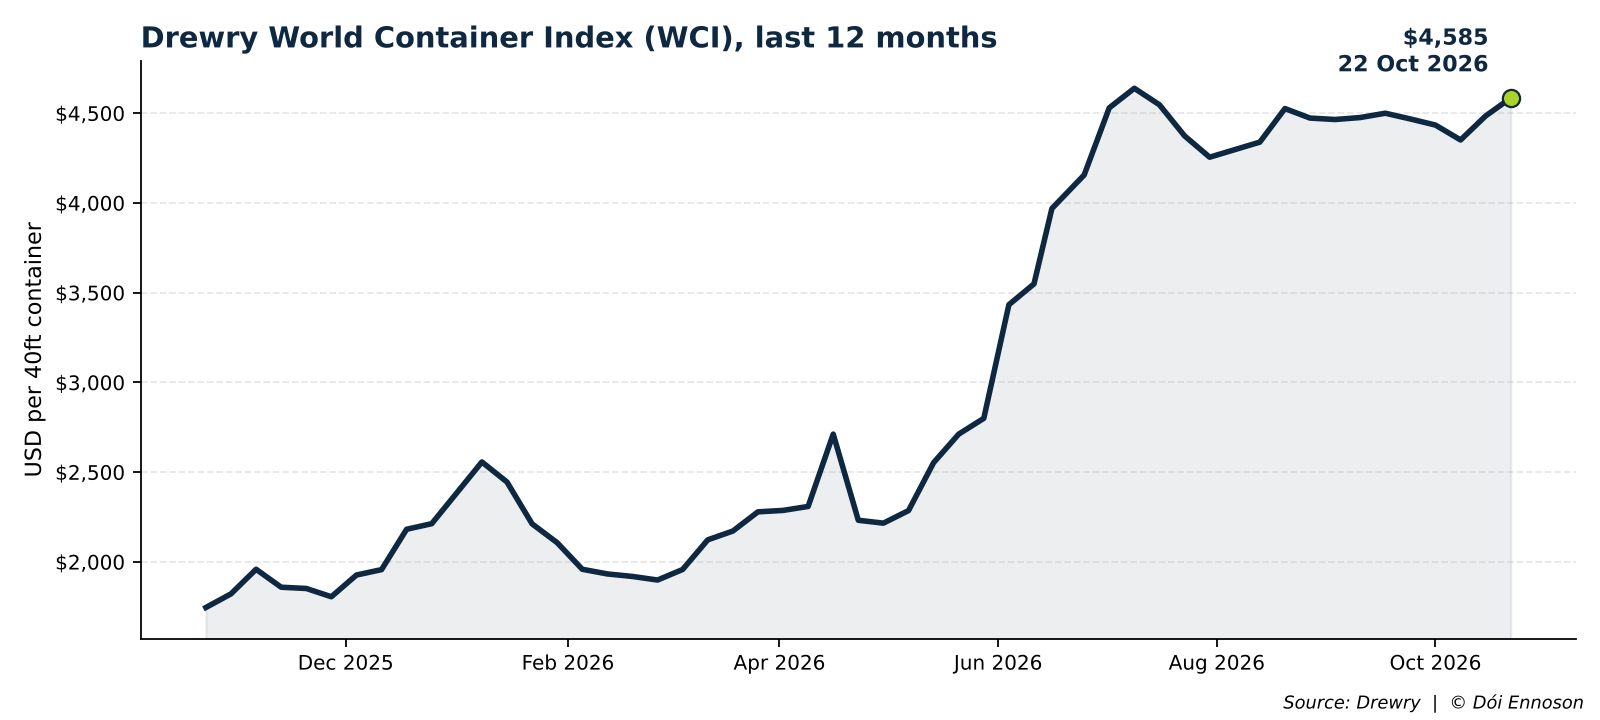
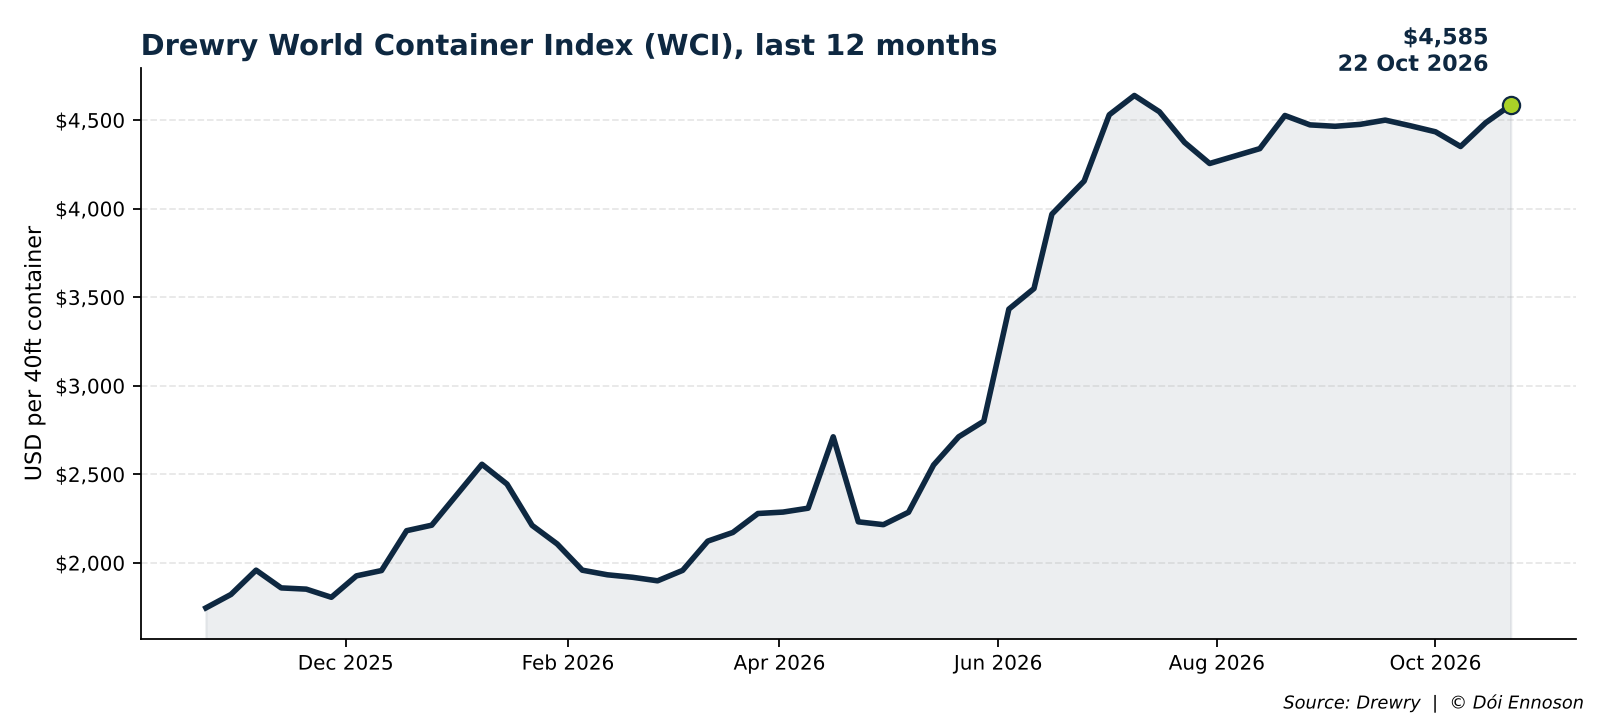
Restyle newsletter charts like the signup page chart
WCI vs. SCFI and IACI now use the compact style of the WCI web chart:
left-aligned title, dollar axis, light grid, latest value marked with a
dot and direct labels instead of a legend. Shared helpers style_chart,
mark_last_value and plot_single_index; images shrink from 4200 px to
1600 px width, which is still sharp in email clients.

Claude-Session: https://claude.ai/code/session_01JCdhY1R9vYqJgFoeeUM1W8

diff --git a/src/plot_generator.py b/src/plot_generator.py
@@ -2,7 +2,6 @@ import os
 import pandas as pd
 import matplotlib.pyplot as plt
 import matplotlib.dates as mdates
-from datetime import datetime
 import logging
 
 # Logging
@@ -57,6 +56,52 @@ def load_and_prepare_data(csv_path, date_col='Date', value_col='Value'):
     return df
 
 
+def style_chart(fig, ax, title, source):
+    """Apply the common chart style (title, axes, grid, source line)."""
+    ax.set_ylabel('USD per 40ft container', fontsize=10)
+    ax.yaxis.set_major_formatter(plt.FuncFormatter(lambda v, _: f'${v:,.0f}'))
+    ax.xaxis.set_major_formatter(mdates.DateFormatter('%b %Y'))
+    ax.xaxis.set_major_locator(mdates.MonthLocator(interval=2))
+    ax.grid(True, axis='y', alpha=0.3, linestyle='--')
+    for side in ('top', 'right'):
+        ax.spines[side].set_visible(False)
+    ax.tick_params(labelsize=9)
+    
+    ax.set_title(title, fontsize=13, fontweight='bold', color=COLOR_WCI, loc='left')
+    fig.text(0.99, 0.01, f'Source: {source}  |  © Dói Ennoson', ha='right', va='bottom', fontsize=8, style='italic')
+    plt.tight_layout(rect=[0, 0.03, 1, 1])
+
+
+def mark_last_value(ax, df, color, label='', side='above'):
+    """Highlight the latest data point with a dot and its value ('above' or 'right' of the dot)."""
+    last_date = df['Date'].iloc[-1]
+    last_value = df['Value'].iloc[-1]
+    ax.scatter([last_date], [last_value], color=COLOR_SCFI, edgecolor=color, s=60, zorder=3)
+    if side == 'right':
+        offset, ha, va = (10, 0), 'left', 'center'
+    else:
+        offset, ha, va = (-10, 12), 'right', 'bottom'
+    ax.annotate(f'{label}${last_value:,.0f}\n{last_date.strftime("%d %b %Y")}',
+                xy=(last_date, last_value), xytext=offset, textcoords='offset points',
+                ha=ha, va=va, fontsize=10, fontweight='bold', color=COLOR_WCI)
+
+
+def plot_single_index(df, output_path, title, source):
+    """Line chart with light area fill for a single index."""
+    fig, ax = plt.subplots(figsize=(10, 4.5))
+    
+    bottom = df['Value'].min() * 0.9
+    ax.plot(df['Date'], df['Value'], color=COLOR_WCI, linewidth=2.5)
+    ax.fill_between(df['Date'], df['Value'], bottom, color=COLOR_WCI, alpha=0.08)
+    ax.set_ylim(bottom=bottom)
+    mark_last_value(ax, df, COLOR_WCI)
+    
+    style_chart(fig, ax, title, source)
+    os.makedirs(os.path.dirname(output_path), exist_ok=True)
+    plt.savefig(output_path, dpi=160, facecolor='white')
+    plt.close()
+
+
 def create_wci_scfi_chart():
     """Create combined WCI and SCFI chart."""
     logger.info("📊 Creating WCI vs SCFI chart")
@@ -74,74 +119,28 @@ def create_wci_scfi_chart():
     wci_df = wci_df[wci_df['Date'] >= start_date]
     scfi_df = scfi_df[scfi_df['Date'] >= start_date]
     
-    logger.info(f"📊 WCI records after filtering: {len(wci_df)}")
-    logger.info(f"📊 SCFI records after filtering: {len(scfi_df)}")
+    if len(wci_df) == 0 or len(scfi_df) == 0:
+        logger.error("❌ No WCI or SCFI data available from 2025-01-01")
+        return False
     
-    if len(wci_df) == 0:
-        logger.warning("⚠ No WCI data available from 2025-01-01")
-    if len(scfi_df) == 0:
-        logger.warning("⚠ No SCFI data available from 2025-01-01")
+    fig, ax = plt.subplots(figsize=(10, 4.5))
     
-    # Create figure with single y-axis
-    fig, ax = plt.subplots(figsize=(14, 8))
+    # Both in USD on the same axis
+    ax.plot(wci_df['Date'], wci_df['Value'], color=COLOR_WCI, linewidth=2.5)
+    ax.plot(scfi_df['Date'], scfi_df['Value'], color=COLOR_SCFI, linewidth=2.5)
+    ax.set_ylim(bottom=min(wci_df['Value'].min(), scfi_df['Value'].min()) * 0.9)
     
-    # Plot both on same y-axis (both in USD)
-    ax.plot(wci_df['Date'], wci_df['Value'], 
-            color=COLOR_WCI, linewidth=2.5, label='WCI', marker='o', markersize=4)
-    ax.plot(scfi_df['Date'], scfi_df['Value'], 
-            color=COLOR_SCFI, linewidth=2.5, label='SCFI', marker='s', markersize=4)
+    # Direct labels right of the line ends instead of a legend; extra space on the right for them
+    last_date = max(wci_df['Date'].max(), scfi_df['Date'].max())
+    ax.set_xlim(right=last_date + (last_date - start_date) * 0.12)
+    mark_last_value(ax, wci_df, COLOR_WCI, 'WCI ', side='right')
+    mark_last_value(ax, scfi_df, COLOR_SCFI, 'SCFI ', side='right')
     
-    ax.set_xlabel('')  # Remove "Date" label
-    ax.set_ylabel('USD per 40ft container', fontsize=12, fontweight='bold')
-    ax.grid(True, alpha=0.3, linestyle='--')
-    
-    # Format x-axis with week numbers
-    ax.xaxis.set_major_formatter(mdates.DateFormatter('W%V %Y'))
-    ax.xaxis.set_major_locator(mdates.WeekdayLocator(interval=4))  # Every 4 weeks
-    
-    # Get the last dates and values
-    if len(wci_df) > 0:
-        last_wci_date = wci_df['Date'].iloc[-1]
-        last_wci_value = wci_df['Value'].iloc[-1]
-        
-        # Annotate WCI value with white background box (no arrow)
-        ax.annotate(f'WCI: ${last_wci_value:.0f}', 
-                   xy=(last_wci_date, last_wci_value),
-                   xytext=(10, 10), textcoords='offset points',
-                   fontsize=10, fontweight='bold', color=COLOR_WCI,
-                   bbox=dict(boxstyle='round,pad=0.5', facecolor='white', edgecolor=COLOR_WCI, linewidth=2))
-    
-    if len(scfi_df) > 0:
-        last_scfi_date = scfi_df['Date'].iloc[-1]
-        last_scfi_value = scfi_df['Value'].iloc[-1]
-        
-        # Annotate SCFI value with white background box (no arrow, offset differently to avoid overlap)
-        ax.annotate(f'SCFI: ${last_scfi_value:.0f}', 
-                   xy=(last_scfi_date, last_scfi_value),
-                   xytext=(10, -25), textcoords='offset points',
-                   fontsize=10, fontweight='bold', color=COLOR_SCFI,
-                   bbox=dict(boxstyle='round,pad=0.5', facecolor='white', edgecolor=COLOR_SCFI, linewidth=2))
-    
-    plt.setp(ax.xaxis.get_majorticklabels(), rotation=45, ha='right')
-    
-    # Title and subtitle
-    current_date = datetime.now().strftime('%B %d, %Y')
-    fig.suptitle('WCI vs. SCFI', fontsize=18, fontweight='bold', y=0.98)
-    fig.text(0.5, 0.94, f'Generated: {current_date}  |  Source: Drewry, Shanghai Shipping Exchange',
-             ha='center', fontsize=11, style='normal')
-    
-    # Copyright
-    fig.text(0.98, 0.98, '© Dói Ennoson', ha='right', va='top', fontsize=9, style='italic')
-    
-    # Legend
-    ax.legend(loc='upper left', fontsize=11)
-    
-    # Adjust layout
-    plt.tight_layout(rect=[0, 0, 1, 0.96])
-    
-    # Save
+    style_chart(fig, ax, 'WCI vs. SCFI since January 2025', 'Drewry, Shanghai Shipping Exchange')
+    # No month ticks in the empty label area right of the data
+    ax.set_xticks([t for t in ax.get_xticks() if t <= mdates.date2num(last_date)])
     os.makedirs(os.path.dirname(WCI_SCFI_OUTPUT), exist_ok=True)
-    plt.savefig(WCI_SCFI_OUTPUT, dpi=300, bbox_inches='tight')
+    plt.savefig(WCI_SCFI_OUTPUT, dpi=160, facecolor='white')
     plt.close()
     
     logger.info(f"✅ WCI/SCFI chart saved to {WCI_SCFI_OUTPUT}")
@@ -152,85 +151,12 @@ def create_iaci_chart():
     """Create IACI chart."""
     logger.info("📊 Creating IACI chart")
     
-    # Load data
     iaci_df = load_and_prepare_data(os.path.join(DATA_DIR, "iaci.csv"))
-    
-    if iaci_df is None:
+    if iaci_df is None or len(iaci_df) == 0:
         logger.error("❌ Could not load data for IACI chart")
         return False
     
-    logger.info(f"📊 IACI records: {len(iaci_df)}")
-    
-    # Create figure
-    fig, ax = plt.subplots(figsize=(14, 8))
-    
-    # Plot IACI
-    ax.plot(iaci_df['Date'], iaci_df['Value'], 
-            color=COLOR_IACI, linewidth=2.5, marker='o', markersize=4)
-    ax.set_xlabel('')  # Remove "Date" label
-    ax.set_ylabel('IACI (USD per 40ft container)', fontsize=12, fontweight='bold')
-    ax.grid(True, alpha=0.3, linestyle='--')
-    
-    # Format x-axis
-    ax.xaxis.set_major_formatter(mdates.DateFormatter('%b %Y'))
-    ax.xaxis.set_major_locator(mdates.MonthLocator(interval=2))
-    
-    # Set x-axis limits to actual data range
-    if len(iaci_df) > 0:
-        ax.set_xlim(iaci_df['Date'].min(), iaci_df['Date'].max())
-    
-    # Get the last date and always show it with actual date
-    if len(iaci_df) > 0:
-        last_date = iaci_df['Date'].iloc[-1]
-        last_value = iaci_df['Value'].iloc[-1]
-        
-        # Get current tick locations and labels
-        current_ticks = list(ax.get_xticks())
-        current_labels = [label.get_text() for label in ax.get_xticklabels()]
-        
-        # Convert last_date to matplotlib date number
-        last_date_num = mdates.date2num(last_date)
-        
-        # Add last date to ticks if not already there
-        if last_date_num not in current_ticks:
-            current_ticks.append(last_date_num)
-            ax.set_xticks(current_ticks)
-            
-            # Format labels: all others as "Mon YYYY", last one as "DD Mon YYYY"
-            labels = []
-            for tick in current_ticks:
-                tick_date = mdates.num2date(tick)
-                if abs(tick - last_date_num) < 0.5:  # This is the last date
-                    labels.append(tick_date.strftime('%d %b %Y'))
-                else:
-                    labels.append(tick_date.strftime('%b %Y'))
-            ax.set_xticklabels(labels)
-        
-        # Add value annotation for last point (no arrow)
-        ax.annotate(f'${last_value:.0f}', 
-                   xy=(last_date, last_value),
-                   xytext=(10, 10), textcoords='offset points',
-                   fontsize=10, fontweight='bold',
-                   bbox=dict(boxstyle='round,pad=0.5', facecolor='white', edgecolor=COLOR_IACI, linewidth=2))
-    
-    plt.setp(ax.xaxis.get_majorticklabels(), rotation=45, ha='right')
-    
-    # Title and subtitle
-    current_date = datetime.now().strftime('%B %d, %Y')
-    fig.suptitle('Intra-Asia Container Index', fontsize=18, fontweight='bold', y=0.98)
-    fig.text(0.5, 0.94, f'Generated: {current_date}  |  Source: Drewry',
-             ha='center', fontsize=11, style='normal')
-    
-    # Copyright
-    fig.text(0.98, 0.98, '© Dói Ennoson', ha='right', va='top', fontsize=9, style='italic')
-    
-    # Adjust layout
-    plt.tight_layout(rect=[0, 0, 1, 0.96])
-    
-    # Save
-    os.makedirs(os.path.dirname(IACI_OUTPUT), exist_ok=True)
-    plt.savefig(IACI_OUTPUT, dpi=300, bbox_inches='tight')
-    plt.close()
+    plot_single_index(iaci_df, IACI_OUTPUT, 'Drewry Intra-Asia Container Index (IACI)', 'Drewry')
     
     logger.info(f"✅ IACI chart saved to {IACI_OUTPUT}")
     return True
@@ -247,39 +173,7 @@ def create_wci_web_chart():
     
     start_date = wci_df['Date'].max() - pd.DateOffset(months=12)
     wci_df = wci_df[wci_df['Date'] >= start_date]
-    
-    fig, ax = plt.subplots(figsize=(10, 4.5))
-    
-    ax.plot(wci_df['Date'], wci_df['Value'], color=COLOR_WCI, linewidth=2.5)
-    ax.fill_between(wci_df['Date'], wci_df['Value'], wci_df['Value'].min() * 0.9,
-                    color=COLOR_WCI, alpha=0.08)
-    ax.set_ylim(bottom=wci_df['Value'].min() * 0.9)
-    
-    # Highlight latest value
-    last_date = wci_df['Date'].iloc[-1]
-    last_value = wci_df['Value'].iloc[-1]
-    ax.scatter([last_date], [last_value], color=COLOR_SCFI, edgecolor=COLOR_WCI, s=60, zorder=3)
-    ax.annotate(f'${last_value:,.0f}\n{last_date.strftime("%d %b %Y")}',
-                xy=(last_date, last_value), xytext=(-10, 12), textcoords='offset points',
-                ha='right', fontsize=10, fontweight='bold', color=COLOR_WCI)
-    
-    ax.set_ylabel('USD per 40ft container', fontsize=10)
-    ax.yaxis.set_major_formatter(plt.FuncFormatter(lambda v, _: f'${v:,.0f}'))
-    ax.xaxis.set_major_formatter(mdates.DateFormatter('%b %Y'))
-    ax.xaxis.set_major_locator(mdates.MonthLocator(interval=2))
-    ax.grid(True, axis='y', alpha=0.3, linestyle='--')
-    for side in ('top', 'right'):
-        ax.spines[side].set_visible(False)
-    ax.tick_params(labelsize=9)
-    
-    ax.set_title('Drewry World Container Index (WCI), last 12 months',
-                 fontsize=13, fontweight='bold', color=COLOR_WCI, loc='left')
-    fig.text(0.99, 0.01, 'Source: Drewry  |  © Dói Ennoson', ha='right', va='bottom', fontsize=8, style='italic')
-    
-    plt.tight_layout(rect=[0, 0.03, 1, 1])
-    os.makedirs(os.path.dirname(WCI_WEB_OUTPUT), exist_ok=True)
-    plt.savefig(WCI_WEB_OUTPUT, dpi=160, facecolor='white')
-    plt.close()
+    plot_single_index(wci_df, WCI_WEB_OUTPUT, 'Drewry World Container Index (WCI), last 12 months', 'Drewry')
     
     logger.info(f"✅ WCI web chart saved to {WCI_WEB_OUTPUT}")
     return True
